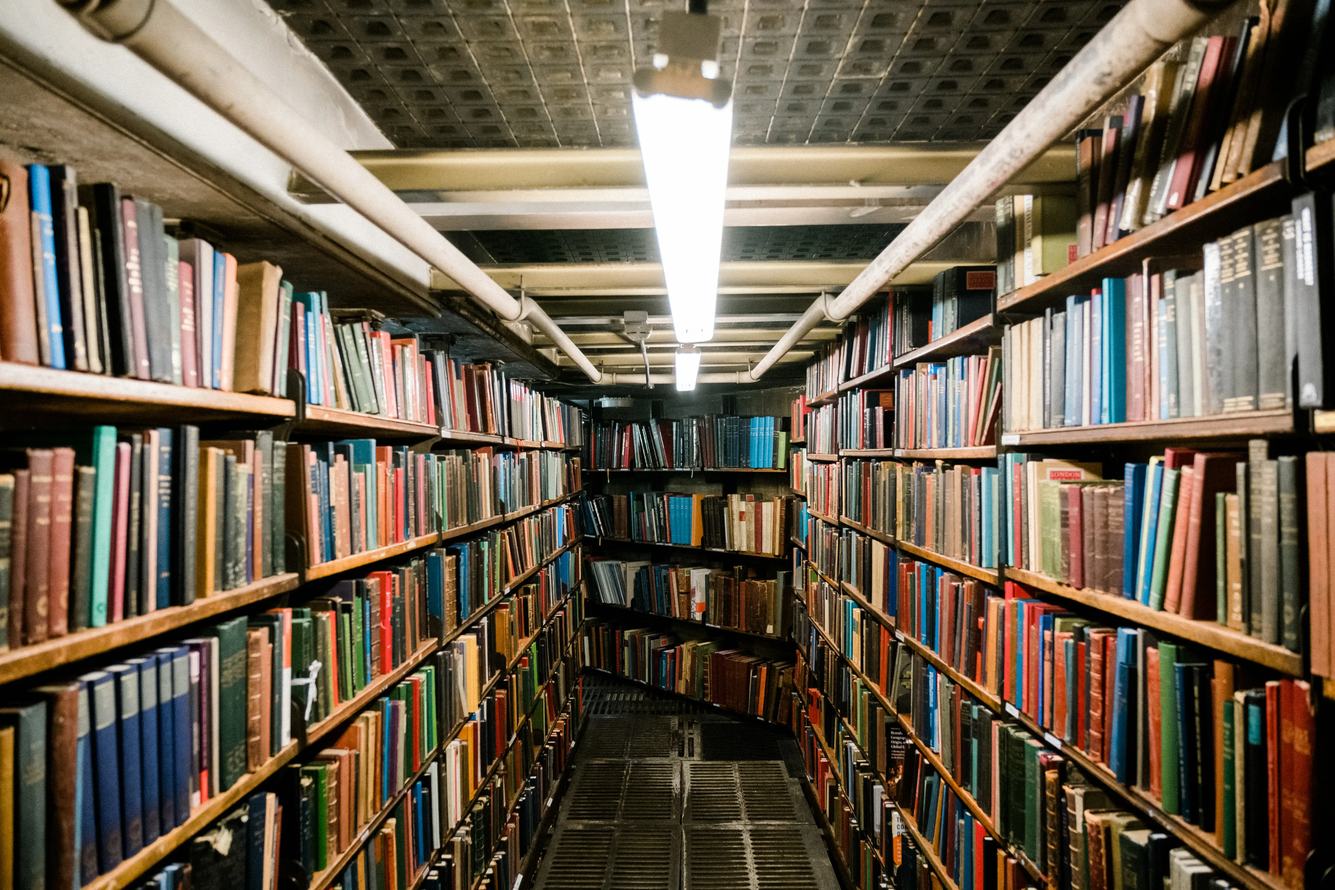
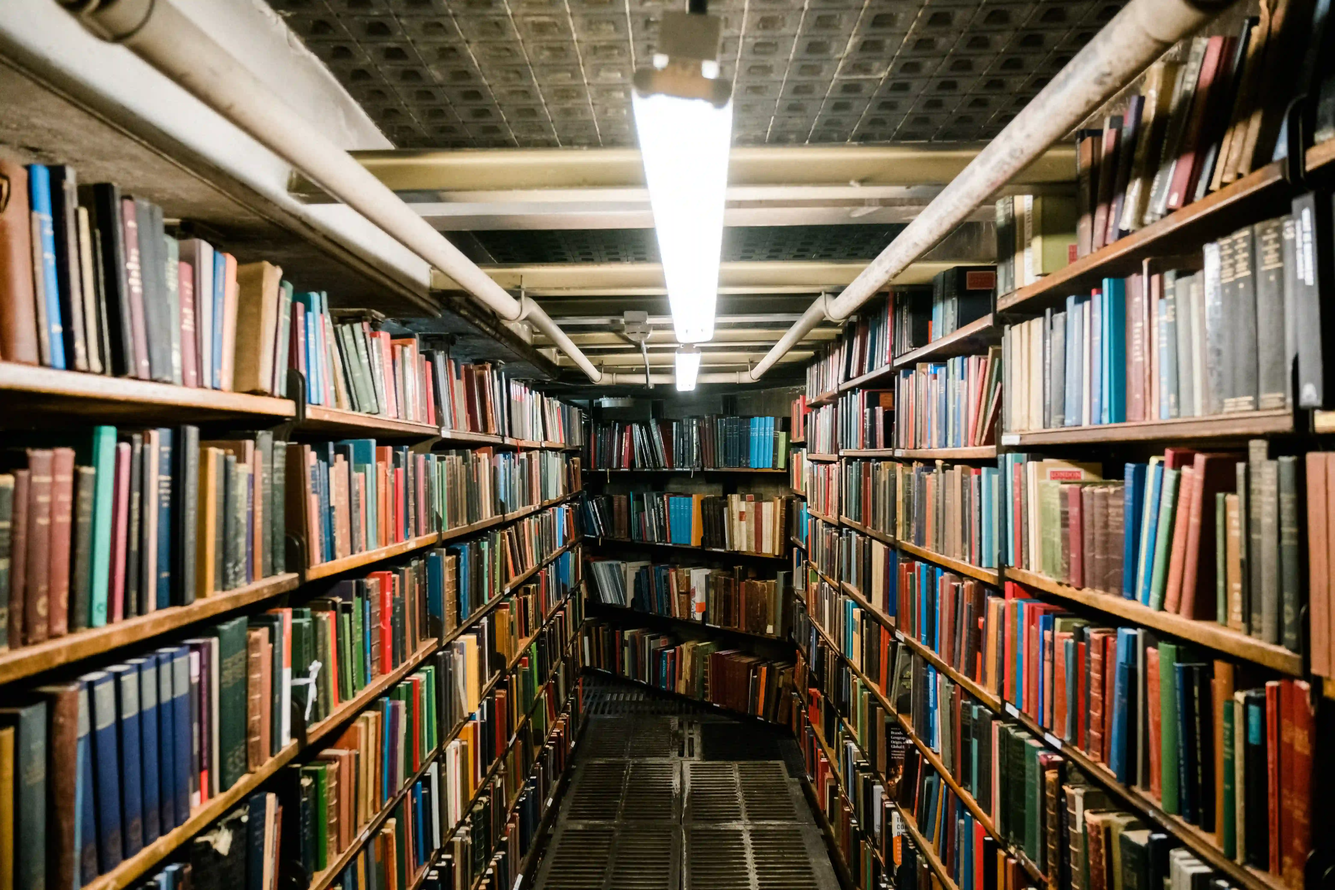
more changes for optimization - locally shoes improvement

diff --git a/frontend/src/components/Hero.css b/frontend/src/components/Hero.css
@@ -9,7 +9,7 @@
   overflow: hidden;
 }
 
-/* === Hero Background Image Wrapper to differentiate it frim the rest of the page for not being overridden by other settings=== */
+/* === Hero Background Image Wrapper to differentiate it from the rest of the page for not being overridden by other settings === */
 .hero-image-wrapper {
   position: absolute;
   top: 0;
@@ -21,7 +21,7 @@
   z-index: 0;
 }
 
-/* === Slides (controlled via React)  needed to be done cuz the cpu usage made the website consume more energy === */
+/* === Slides (controlled via React) – needed to be done because the previous CPU usage made the website consume more energy === */
 .hero-slide {
   position: absolute;
   top: 0;
@@ -29,6 +29,9 @@
   width: 100%;
   height: 100%;
   object-fit: cover;
+  filter: contrast(120%) grayscale(10%) blur(1px);
+  image-rendering: auto;
+  backdrop-filter: blur(1px);
   opacity: 0;
   transition: opacity 1s ease-in-out;
   z-index: 0;
@@ -42,13 +45,6 @@
 .hero-slide.hidden {
   opacity: 0;
   z-index: 0;
-}
-
-/* === Optional: Slight blur for image quality smoothing === */
-.hero-slide {
-  filter: contrast(120%) grayscale(10%) blur(1px);
-  image-rendering: auto;
-  backdrop-filter: blur(1px);
 }
 
 /* === Overlay (darkens image for better contrast) === */
@@ -119,6 +115,33 @@
   color: black;
 }
 
+/* === Carousel Navigation Arrows === */
+.hero-nav {
+  position: absolute;
+  top: 50%;
+  transform: translateY(-50%);
+  z-index: 3;
+  background: rgba(0, 0, 0, 0.4);
+  color: white;
+  border: none;
+  font-size: 32px;
+  cursor: pointer;
+  padding: 10px 16px;
+  transition: background 0.3s ease;
+}
+
+.hero-nav:hover {
+  background: rgba(0, 0, 0, 0.7);
+}
+
+.hero-nav.prev {
+  left: 16px;
+}
+
+.hero-nav.next {
+  right: 16px;
+}
+
 /* === Responsive === */
 @media (max-width: 768px) {
   .hero-content h1 {
@@ -142,5 +165,3 @@
     padding: 24px;
   }
 }
-
-/* === Eliminat: keyframes fade & animation-delay — nu mai sunt necesare === */

diff --git a/frontend/src/components/Hero.jsx b/frontend/src/components/Hero.jsx
@@ -24,6 +24,11 @@ function Hero({ setSelectedPage }) {
     return () => clearInterval(handle);
   }, [images.length]);
 
+  const goToNext = () =>
+    setActiveSlide((prev) => (prev + 1) % images.length);
+  const goToPrev = () =>
+    setActiveSlide((prev) => (prev - 1 + images.length) % images.length);
+
   return (
     <section className="hero">
       <div className="hero-image-wrapper">
@@ -34,17 +39,19 @@ function Hero({ setSelectedPage }) {
             srcSet={
               index === 0
                 ? `
-              /assets/images/hero-bg-small-480.webp 480w,
-              /assets/images/hero-bg-small-768.webp 768w,
-              /assets/images/hero-bg-small.webp 1280w
-            `
+                /assets/images/hero-bg-small-480.webp 480w,
+                /assets/images/hero-bg-small-768.webp 768w,
+                /assets/images/hero-bg-small.webp 1280w
+              `
                 : undefined
             }
             sizes="(max-width: 768px) 100vw, 50vw"
             width="1280"
             height="720"
             alt={`Hero Slide ${index + 1}`}
-            className={`hero-slide ${index === activeSlide ? "visible" : "hidden"}`}
+            className={`hero-slide ${
+              index === activeSlide ? "visible" : "hidden"
+            }`}
             loading={index === 0 ? "eager" : "lazy"}
             fetchpriority={index === 0 ? "high" : "low"}
           />
@@ -63,6 +70,13 @@ function Hero({ setSelectedPage }) {
           Framework
         </button>
       </div>
+
+      <button className="hero-nav prev" onClick={goToPrev}>
+        ‹
+      </button>
+      <button className="hero-nav next" onClick={goToNext}>
+        ›
+      </button>
     </section>
   );
 }

diff --git a/frontend/src/index.html b/frontend/src/index.html
@@ -10,6 +10,7 @@
   <link rel="preload" href="/assets/fonts/merriweather-regular.woff2" as="font" type="font/woff2" crossorigin="anonymous">
 <link rel="preload" href="/assets/fonts/merriweather-bold.woff2" as="font" type="font/woff2" crossorigin="anonymous">
 <link rel="preload" as="image" href="/assets/images/hero-bg-small.webp" />
+<link rel="preload" as="image" href="/assets/images/carusel-3.webp" />
 
 <link
   rel="preload"

diff --git a/frontend/src/components/Footer.css b/frontend/src/components/Footer.css
@@ -8,7 +8,7 @@
     text-align: center;
     padding: 20px 0;
     margin-top: 40px;
-    min-height: 200px;
+    min-height: 150px;
   }
   .footer .container {
     align-items: center;
